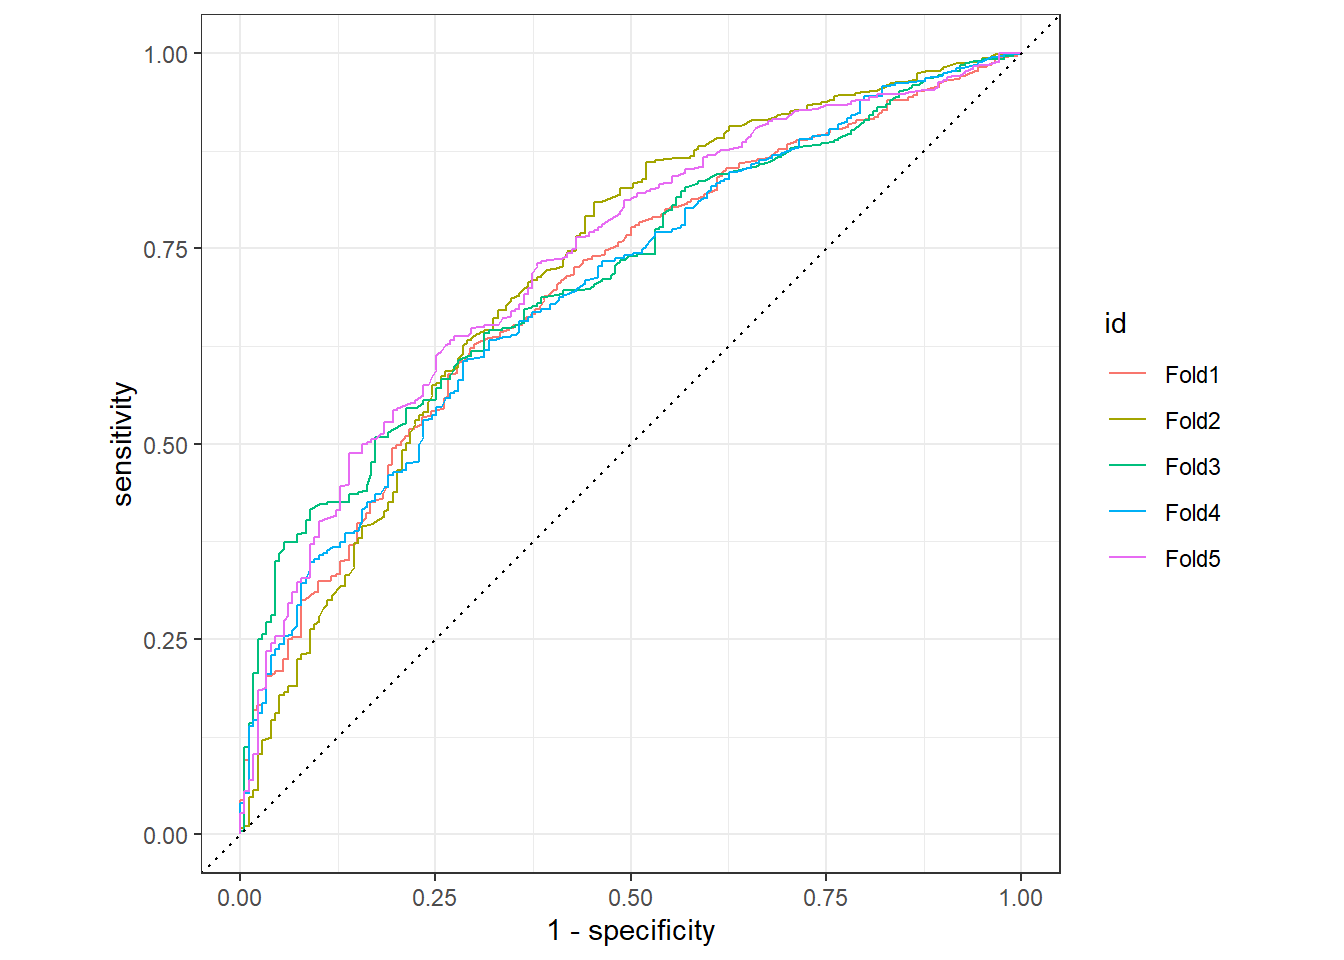
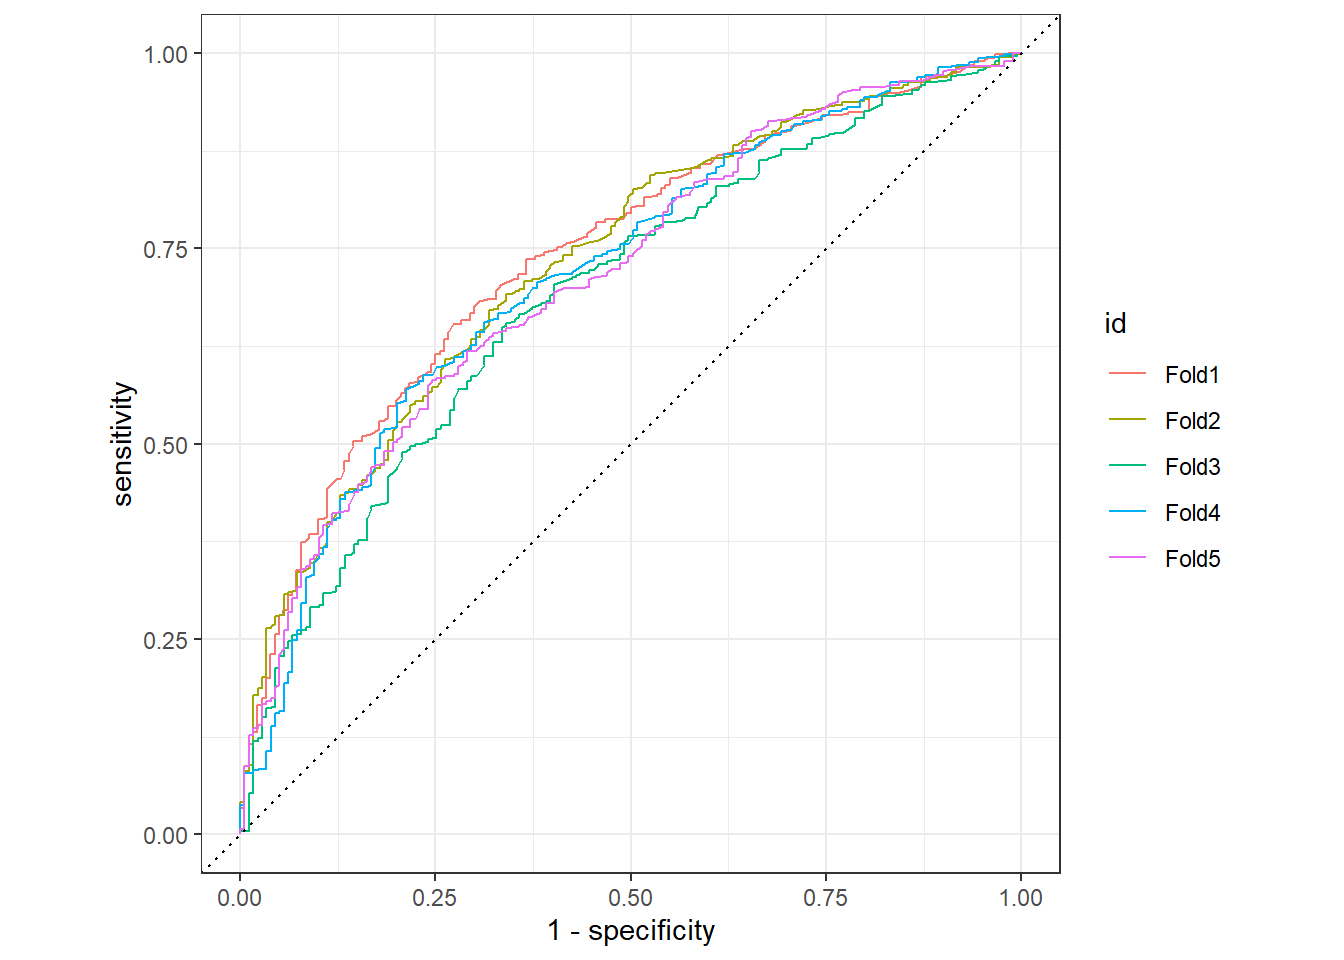
Predicting Drop outs #1
adjusted text on trees

Changed region(s): [[0.1562, 0.0625, 0.75, 0.875]]

diff --git a/content/post/2021-06-29-predicting-high-school-graduation-from-kindergarten-data-basic-decision-trees-part-1/index.en.html b/content/post/2021-06-29-predicting-high-school-graduation-from-kindergarten-data-basic-decision-trees-part-1/index.en.html
@@ -164,10 +164,10 @@ star_forest &lt;- rand_forest(
 
 # Create custom metrics
 star_metrics &lt;- metric_set(accuracy, roc_auc, sens, spec)</code></pre>
-<p>Because decision trees do most of the work in the analysis, we say a little more about them.</p>
-<p>In a basic decision tree, the main idea is to split the data points up in sections, using all the predictors. So for the first split you make a cut at those who have free lunch, are male, scores lower than 20 points on a reading test, and so on. You hope that drop outs and graduates (the labels you predict) are already nicely separated into the two spaces (or boxes) that you made. But they probably aren’t yet. So in each box you try to find new lines to split the data points on. And so on.</p>
-<p>How does the algorithm choose the point at which to make a cut? Unless variables are continuous, it simple tries all the options. It then looks at a measure of the ‘purity’ inside the boxes it has made. You want data points to neatly fall in either box, so each box is pure. This can be measured by <a href="https://youtu.be/a3ioGSwfVpE?list=PLl8OlHZGYOQ7bkVbuRthEsaLr7bONzbXS">impurity functions</a> such as gini or entropy. The engines in this post happen to use gini, which you may know from measurements of inequality. In the case of two classes, it multiplies the proportion of each in a box together. The resulting value has a maximum for proportions of 0.5. This is indeed the worse you can do if your goal is to make boxes pure!</p>
-<p>If you put no limitations and this algorithm, it will keep drawing boxes around graduates and drop out, until there is a box around every outcome measure. This is unfortunate, because we have molded our model too much to the training data. We have overfit. Hence there is bias. If we applied this model to the test data set, we would probably get very poor predictions.</p>
+<p>Because decision trees do most of the work in the analysis, we say a little more about how they are made. This helps us understand what we are doing when we tune hyperparameters and how to interpret so called roc curves later on.</p>
+<p>In a decision tree, you split the outcome values into two boxes based on one of your predictors. You then split the outcome values in each of the boxes based on another predictor. And so on. So the first split in our case could be between those who have free lunch and those who do not have a free lunch at school.</p>
+<p>The algorithm must make two decision at each cut. Which predictor to pick and at which point to make a cut? The solution is not very elegant. Unless variables are continuous, the algorithm simply tries every possible cut for each predictor. It then assign a value to each of the (n dimensions times k predictors) cuts that measures how ‘pure’ the boxes are. You want data points to neatly fall in either box, so that each box is pure. This can be measured by <a href="https://youtu.be/a3ioGSwfVpE?list=PLl8OlHZGYOQ7bkVbuRthEsaLr7bONzbXS">impurity functions</a> such as gini or entropy. The engines in this post happen to use gini, which you may know from measurements of inequality. In the case of two classes, it multiplies the proportion of each in a box together. The resulting value has a maximum for proportions of 0.5. This is indeed the worse you can do if your goal is to make boxes pure!</p>
+<p>If you put no limitations and this algorithm, it will keep drawing boxes around graduates and drop outs, until there is a box around every outcome measure. This is unfortunate, because we have molded our model too much to the training data. We have overfit. Hence there is bias. If we applied this model to the test data set, we would probably get very poor predictions.</p>
 <p>Putting breaks on the splitting process is a type of so called regularization. It can be done in several ways, such as limiting the number of leafs of the tree, limiting tree depth or setting a minimal size for the nodes (the final subsets). The defaults for these hyperparameters (hyper because they control the splitting criteria, which are the parameters) depend on the package. In the <code>rpart</code> engine for example, the maximum tree depth is 30 and the minimal number of cases per node is 20. There is also a cost-complexity parameter cp that penalizes splits, so the tree doesn’t grow too wildly.</p>
 <p>The result of regularization is that we do not have perfect purity in our terminal nodes or, if you will, ultimate boxes. So how to apply the labels then? Typically, a proportion of over 0.5 of a certain label in a terminal node is converted into labeling all the points in the box with that label. This threshold is not set in stone though. The effect of moving it will later be glanced from the so called ROC curve and its associated data frame.</p>
 <p>The popularity of decision trees is due to the high quality of the predictions, which require almost no pre-processing of the data and modest computation time.</p>
@@ -185,12 +185,12 @@ star_metrics &lt;- metric_set(accuracy, roc_auc, sens, spec)</code></pre>
 
 fit_tree %&gt;% collect_metrics()</code></pre>
 <pre><code>## # A tibble: 4 x 6
-##   .metric  .estimator   mean     n std_err .config             
-##   &lt;chr&gt;    &lt;chr&gt;       &lt;dbl&gt; &lt;int&gt;   &lt;dbl&gt; &lt;chr&gt;               
-## 1 accuracy binary     0.775      5 0.00249 Preprocessor1_Model1
-## 2 roc_auc  binary     0.577      5 0.0317  Preprocessor1_Model1
-## 3 sens     binary     0.980      5 0.00857 Preprocessor1_Model1
-## 4 spec     binary     0.0647     5 0.0266  Preprocessor1_Model1</code></pre>
+##   .metric  .estimator  mean     n std_err .config             
+##   &lt;chr&gt;    &lt;chr&gt;      &lt;dbl&gt; &lt;int&gt;   &lt;dbl&gt; &lt;chr&gt;               
+## 1 accuracy binary     0.780     5 0.00225 Preprocessor1_Model1
+## 2 roc_auc  binary     0.638     5 0.0135  Preprocessor1_Model1
+## 3 sens     binary     0.975     5 0.00356 Preprocessor1_Model1
+## 4 spec     binary     0.104     5 0.0122  Preprocessor1_Model1</code></pre>
 <p>In the resulting table, we see the mean of the five folds of each of the metrics that we defined earlier. The accuracy is the proportion of predictions that are correct. You may think this is all we would care about, but that is not the case. The third and fourth row contain the metrics that tell you why.</p>
 <p>Sens stands for sensitivity, which is the proportion of true YES cases (graduations) we correctly labeled as YES. We got almost all of them. However, the spec stands for specificity, which is the proportion of true NO cases (drop outs) we correctly predicted. Here we got about 10% correct, which is a very low number indeed. A so called confusion matrix gives a picture of what this means in absolute terms.</p>
 <pre class="r"><code>fit_tree %&gt;%  collect_predictions() %&gt;% 
@@ -198,8 +198,8 @@ fit_tree %&gt;% collect_metrics()</code></pre>
          estimate = .pred_class)</code></pre>
 <pre><code>##           Truth
 ## Prediction  YES   NO
-##        YES 3035  838
-##        NO    62   58</code></pre>
+##        YES 3020  803
+##        NO    77   93</code></pre>
 <p>If you stare at this table for a while, you realize that out of the 900 kids that eventually dropped out of high school, we identified only a couple. We also glance that if we predict NO for a kindergarten kid we have a poor chance that we’re right.</p>
 <p>All of this is not very encouraging. Before we add bells and whistles to the tree, we have to explain the term roc_auc in the table. This term refers to the area under the curve (auc) of the so called ROC curve. We plot is below.</p>
 <pre class="r"><code>fit_tree %&gt;% 
@@ -217,8 +217,8 @@ On the y-axis is the sensitivity: the proportion of true graduations that we pre
 </div>
 <div id="decision-trees-using-resampled-data" class="section level3">
 <h3>Decision Trees using Resampled Data</h3>
-<p>One way to deal with the low specificity of our model would be to change the threshold for labeling the points as YES in a box. If this threshold is lower, then more points are labeled NO, and we probably catch more drop outs in our prediction. However, as the roc curve shows, there is trade off with sensitivity. So what we really want is improve the quality of the prediction and get a better roc_auc score.
-We do so by writing a so called tidymodels ‘recipe’ for handling the data before it is shoved into a model. The recipe start with setting up the formula. We then impute modes and medians for missing data, because it is fast. If we had more time, we would impute using techniques such as bagged trees or k nearest neighbors. We moreover use the smote algorithm to upsample kids who dropped out of high school with the help of nearest neighbors. Such kids are quite rare in the initial data set so that it is said that this data set is “imbalanced”. Also, identifying drop outs is what we are really interested in, so it makes sense to give the model more cases to train on. We also do some steps that prove useful for more advanced models and for prediction on the test data set.</p>
+<p>One way to deal with the low specificity of our model would be to change the threshold for labeling the points as YES in a box. If this threshold is lower, then more points are labeled NO, and we probably catch more drop outs in our prediction. However, as the roc curve shows, there is trade off with sensitivity. So what we really want is improve the quality of the prediction and get a better roc_auc score.</p>
+<p>We do so by writing a so called tidymodels ‘recipe’ for handling the data before it is shoved into a model. The recipe start with setting up the formula. We then impute modes and medians for missing data, because it is fast. If we had more time, we would impute using techniques such as bagged trees or k nearest neighbors. We moreover use the smote algorithm to upsample kids who dropped out of high school with the help of nearest neighbors. Such kids are quite rare in the initial data set so that it is said that this data set is “imbalanced”. Also, identifying drop outs is what we are really interested in, so it makes sense to give the model more cases to train on. We also do some steps that prove useful for more advanced models and for prediction on the test data set.</p>
 <pre class="r"><code># prep the data with a recipe
 star_rec &lt;- recipe(hsgrdcol ~ ., data = star_train) %&gt;% 
   step_impute_mode(all_nominal_predictors()) %&gt;%  
@@ -242,18 +242,18 @@ fit_tree_rec %&gt;% collect_metrics()</code></pre>
 <pre><code>## # A tibble: 4 x 6
 ##   .metric  .estimator  mean     n std_err .config             
 ##   &lt;chr&gt;    &lt;chr&gt;      &lt;dbl&gt; &lt;int&gt;   &lt;dbl&gt; &lt;chr&gt;               
-## 1 accuracy binary     0.695     5 0.00551 Preprocessor1_Model1
-## 2 roc_auc  binary     0.663     5 0.00502 Preprocessor1_Model1
-## 3 sens     binary     0.750     5 0.00526 Preprocessor1_Model1
-## 4 spec     binary     0.507     5 0.0224  Preprocessor1_Model1</code></pre>
+## 1 accuracy binary     0.710     5 0.0101  Preprocessor1_Model1
+## 2 roc_auc  binary     0.650     5 0.00618 Preprocessor1_Model1
+## 3 sens     binary     0.767     5 0.0101  Preprocessor1_Model1
+## 4 spec     binary     0.515     5 0.0170  Preprocessor1_Model1</code></pre>
 <p>The roc_auc has increased by quite a bit, while the specificity has risen quite spectacularly. This model would identify about half of the drop outs. Because the sensitivity is lower and most kids graduate, we also have a lot more false negatives. Let’s look at the absolute numbers again.</p>
 <pre class="r"><code>fit_tree_rec %&gt;%  collect_predictions() %&gt;% 
   conf_mat(truth = hsgrdcol,
          estimate = .pred_class)</code></pre>
 <pre><code>##           Truth
 ## Prediction  YES   NO
-##        YES 2323  442
-##        NO   774  454</code></pre>
+##        YES 2374  435
+##        NO   723  461</code></pre>
 <p>This time about 2/3 of our predictions of drop outs are wrong. That is still a lot.</p>
 <p>Let’s also check how well this decision model does on the test data, that is has not seen before.</p>
 <pre class="r"><code>tree_wfl &lt;- workflow() %&gt;% 
@@ -268,10 +268,10 @@ final_res_tree %&gt;% collect_metrics()</code></pre>
 <pre><code>## # A tibble: 4 x 4
 ##   .metric  .estimator .estimate .config             
 ##   &lt;chr&gt;    &lt;chr&gt;          &lt;dbl&gt; &lt;chr&gt;               
-## 1 accuracy binary         0.710 Preprocessor1_Model1
-## 2 sens     binary         0.748 Preprocessor1_Model1
-## 3 spec     binary         0.576 Preprocessor1_Model1
-## 4 roc_auc  binary         0.679 Preprocessor1_Model1</code></pre>
+## 1 accuracy binary         0.702 Preprocessor1_Model1
+## 2 sens     binary         0.799 Preprocessor1_Model1
+## 3 spec     binary         0.366 Preprocessor1_Model1
+## 4 roc_auc  binary         0.618 Preprocessor1_Model1</code></pre>
 <p>We observe that the numbers are very similar, so we haven’t overfit.</p>
 </div>
 <div id="the-logistic-model" class="section level3">
@@ -294,10 +294,10 @@ collect_metrics(logist_f)</code></pre>
 <pre><code>## # A tibble: 4 x 6
 ##   .metric  .estimator  mean     n std_err .config             
 ##   &lt;chr&gt;    &lt;chr&gt;      &lt;dbl&gt; &lt;int&gt;   &lt;dbl&gt; &lt;chr&gt;               
-## 1 accuracy binary     0.661     5 0.00780 Preprocessor1_Model1
-## 2 roc_auc  binary     0.715     5 0.00649 Preprocessor1_Model1
-## 3 sens     binary     0.664     5 0.0119  Preprocessor1_Model1
-## 4 spec     binary     0.648     5 0.0122  Preprocessor1_Model1</code></pre>
+## 1 accuracy binary     0.667     5 0.00546 Preprocessor1_Model1
+## 2 roc_auc  binary     0.720     5 0.00858 Preprocessor1_Model1
+## 3 sens     binary     0.669     5 0.00647 Preprocessor1_Model1
+## 4 spec     binary     0.658     5 0.0119  Preprocessor1_Model1</code></pre>
 <p>We note that accuracy is lower than in the decision trees, but that the roc_auc and relatedly the specificity is higher. We plot the roc curve, this time for each of the five folds, to see if they make a difference.</p>
 <pre class="r"><code>logist_f %&gt;% 
   collect_predictions() %&gt;% 
@@ -311,8 +311,8 @@ The folds matter quite a bit, so averaging out over them may reduce overfitting.
   conf_mat(hsgrdcol, .pred_class) </code></pre>
 <pre><code>##           Truth
 ## Prediction  YES   NO
-##        YES 2057  315
-##        NO  1040  581</code></pre>
+##        YES 2072  306
+##        NO  1025  590</code></pre>
 <p>We have labeled yet more drop outs correctly, but still about 2/3 of our NO labels are actually a YES (these are the false negatives). This model doesn’t look so bad. It is to be seen of decision trees can beat it.</p>
 <p>To get a rough idea of which predictors make a difference, we check out the results of the logistic model. This idea is rough, because we did not take multicollinearity into account.</p>
 <pre class="r"><code>log_fit &lt;- star_wkflw %&gt;% add_model(star_logist) %&gt;% 
@@ -320,26 +320,28 @@ The folds matter quite a bit, so averaging out over them may reduce overfitting.
 
 tidy(log_fit, exponentiate=T) %&gt;% filter(p.value &lt;0.05) %&gt;% 
   arrange(desc(estimate))</code></pre>
-<pre><code>## # A tibble: 17 x 5
-##    term                             estimate std.error statistic  p.value
-##    &lt;chr&gt;                               &lt;dbl&gt;     &lt;dbl&gt;     &lt;dbl&gt;    &lt;dbl&gt;
-##  1 gksurban_RURAL                      2.48    0.261        3.47 5.23e- 4
-##  2 race_BLACK                          1.91    0.0734       8.81 1.30e-18
-##  3 gksurban_URBAN                      1.86    0.258        2.41 1.59e- 2
-##  4 gkabsent                            1.02    0.00455      5.27 1.40e- 7
-##  5 GKWHITE                             0.996   0.00163     -2.29 2.19e- 2
-##  6 gktmathss                           0.996   0.00144     -3.05 2.27e- 3
-##  7 gktlistss                           0.991   0.00186     -4.73 2.20e- 6
-##  8 GKBUSED                             0.991   0.00216     -4.22 2.40e- 5
-##  9 gktrace_BLACK                       0.701   0.137       -2.61 9.18e- 3
-## 10 birthmonth_JUNE                     0.630   0.150       -3.08 2.05e- 3
-## 11 birthmonth_SEPTEMBER                0.594   0.140       -3.73 1.90e- 4
-## 12 birthmonth_NOVEMBER                 0.573   0.154       -3.61 3.00e- 4
-## 13 gkclasstype_REGULAR...AIDE.CLASS    0.561   0.194       -2.99 2.80e- 3
-## 14 gender_FEMALE                       0.517   0.0592     -11.1  7.49e-29
-## 15 birthmonth_DECEMBER                 0.495   0.159       -4.42 9.80e- 6
-## 16 gkfreelunch_NON.FREE.LUNCH          0.425   0.0913      -9.38 6.87e-21
-## 17 birthyear                           0.376   0.0701     -14.0  2.51e-44</code></pre>
+<pre><code>## # A tibble: 19 x 5
+##    term                       estimate std.error statistic  p.value
+##    &lt;chr&gt;                         &lt;dbl&gt;     &lt;dbl&gt;     &lt;dbl&gt;    &lt;dbl&gt;
+##  1 race_BLACK                    1.85    0.0738       8.34 7.51e-17
+##  2 gksurban_RURAL                1.80    0.242        2.44 1.47e- 2
+##  3 gkclasstype_REGULAR.CLASS     1.53    0.177        2.40 1.62e- 2
+##  4 gkmotivraw                    1.10    0.0297       3.09 2.03e- 3
+##  5 gkabsent                      1.03    0.00468      5.44 5.41e- 8
+##  6 gktmathss                     0.995   0.00145     -3.34 8.27e- 4
+##  7 gktlistss                     0.994   0.00186     -3.31 9.46e- 4
+##  8 gkwordskillss                 0.992   0.00287     -2.69 7.22e- 3
+##  9 GKBUSED                       0.991   0.00204     -4.67 2.97e- 6
+## 10 gkselfconcraw                 0.961   0.0146      -2.72 6.46e- 3
+## 11 birthmonth_JUNE               0.745   0.148       -1.98 4.74e- 2
+## 12 gktrace_BLACK                 0.708   0.137       -2.52 1.18e- 2
+## 13 gkspecin_NO                   0.628   0.209       -2.22 2.62e- 2
+## 14 gender_FEMALE                 0.595   0.0595      -8.71 2.94e-18
+## 15 birthmonth_SEPTEMBER          0.577   0.140       -3.94 8.24e- 5
+## 16 birthmonth_NOVEMBER           0.469   0.153       -4.96 7.22e- 7
+## 17 birthmonth_DECEMBER           0.366   0.158       -6.36 2.06e-10
+## 18 gkfreelunch_NON.FREE.LUNCH    0.358   0.0921     -11.1  7.96e-29
+## 19 birthyear                     0.331   0.0706     -15.7  3.17e-55</code></pre>
 <p>Not being in special education seems to greatly improve your chances of graduating, as does being in a rural community and being black. The benefit of the logistic model is that we know how to interpret it. That will turn out to be a little harder for our decision trees.</p>
 <p>Let’s see how the logistic model does on the test data set it has not seen before.</p>
 <pre class="r"><code>logist_wfl &lt;- star_wkflw %&gt;% add_model(star_logist)
@@ -352,10 +354,10 @@ final_res_log %&gt;% collect_metrics()</code></pre>
 <pre><code>## # A tibble: 4 x 4
 ##   .metric  .estimator .estimate .config             
 ##   &lt;chr&gt;    &lt;chr&gt;          &lt;dbl&gt; &lt;chr&gt;               
-## 1 accuracy binary         0.661 Preprocessor1_Model1
-## 2 sens     binary         0.674 Preprocessor1_Model1
-## 3 spec     binary         0.616 Preprocessor1_Model1
-## 4 roc_auc  binary         0.702 Preprocessor1_Model1</code></pre>
+## 1 accuracy binary         0.659 Preprocessor1_Model1
+## 2 sens     binary         0.672 Preprocessor1_Model1
+## 3 spec     binary         0.612 Preprocessor1_Model1
+## 4 roc_auc  binary         0.700 Preprocessor1_Model1</code></pre>
 <p>The results are very similar to those on the training data, which is as expected. The logistic model draws only one hypersurface through the space of the predictors and the outcome and so is unlikely to overfit.</p>
 <p>The logistic model performs strong against basic decision trees. It remains to be seen if fancier trees can beat it, which is discussed in part 2.</p>
 </div>
